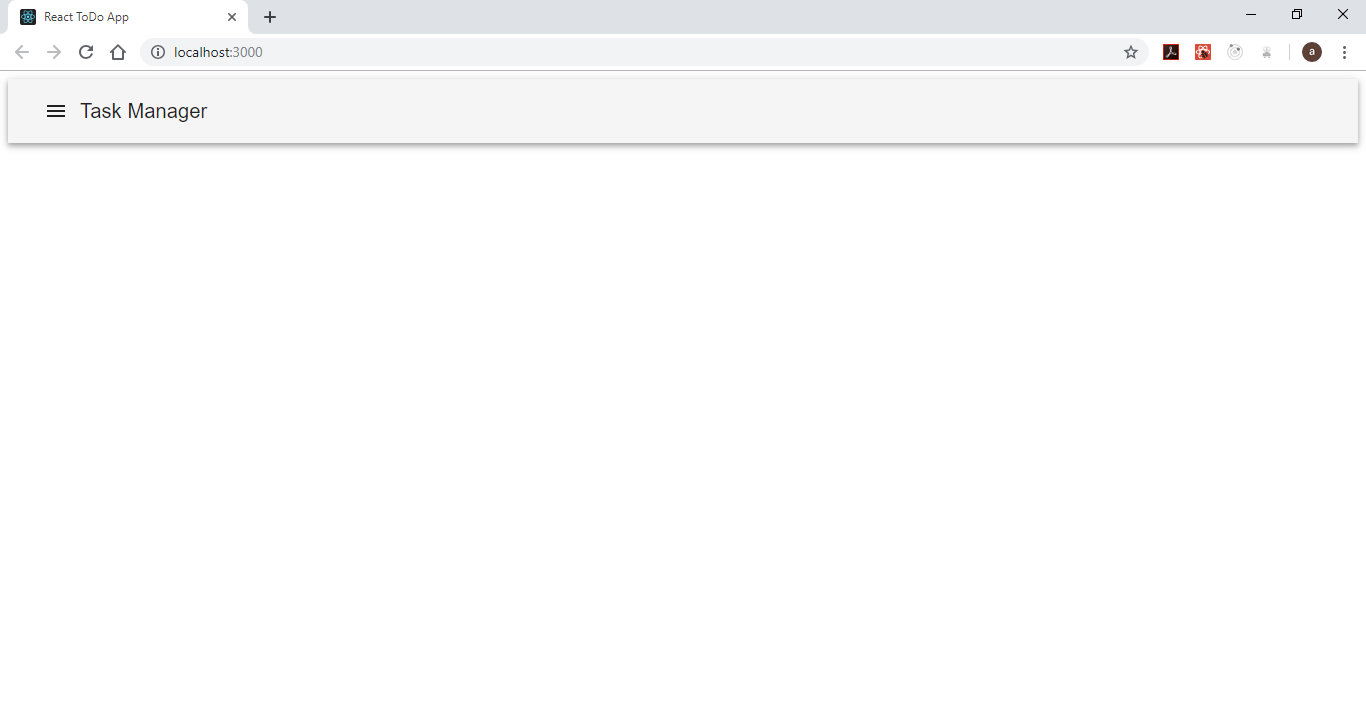
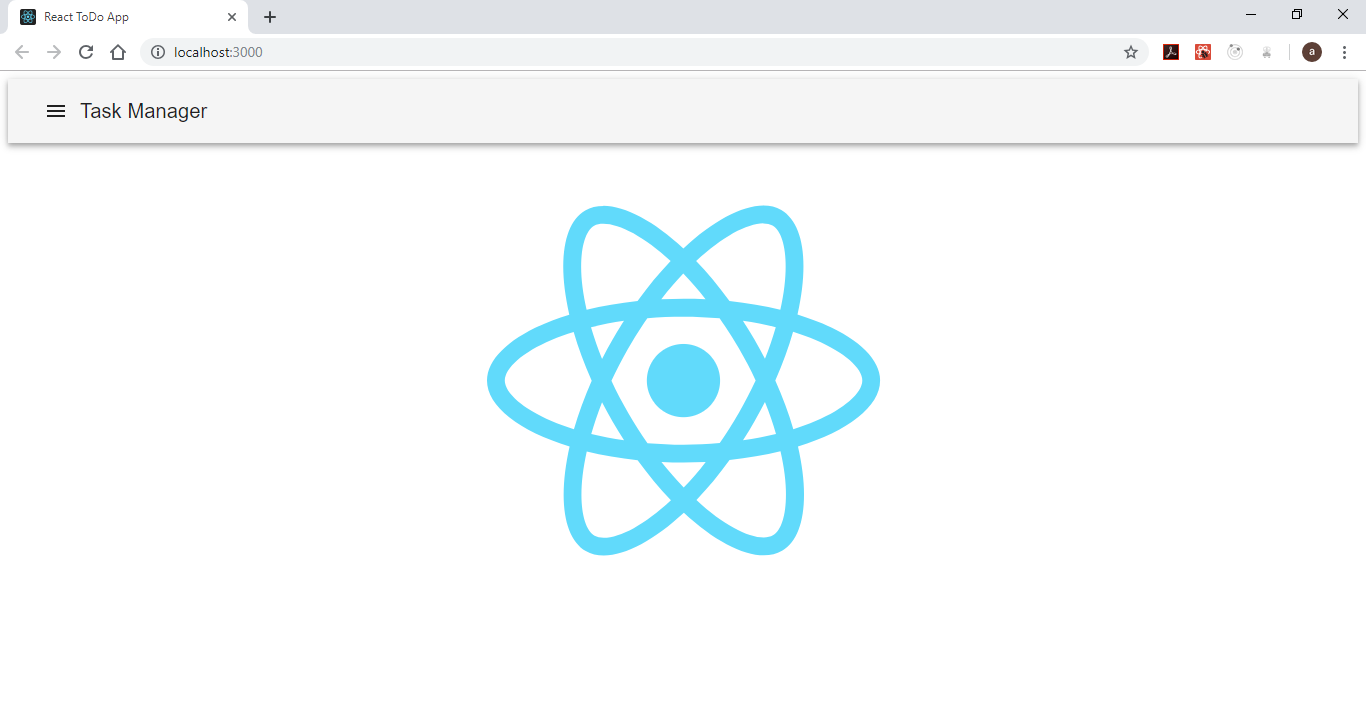
Add screen background

Changed region(s): [[0.3382, 0.272, 0.6457, 0.7857]]

diff --git a/3-project/task-manager-gui/task-manager-web-app/src/components/Home/Home.jsx b/3-project/task-manager-gui/task-manager-web-app/src/components/Home/Home.jsx
@@ -4,6 +4,7 @@ import Toolbar from '@material-ui/core/Toolbar';
 import Typography from '@material-ui/core/Typography';
 import IconButton from '@material-ui/core/IconButton';
 import MenuIcon from '@material-ui/icons/Menu';
+import logo from '../../assets/images/react-logo.svg';
 
 export default class Home extends Component {
   render() {
@@ -19,6 +20,9 @@ export default class Home extends Component {
             </Typography>
           </Toolbar>
         </AppBar>
+        <div style={{ width: '50%', height: '50%', margin: 'auto' }}>
+          <img src={logo} alt="React Logo" />
+        </div>
       </React.Fragment>
     );
   }
